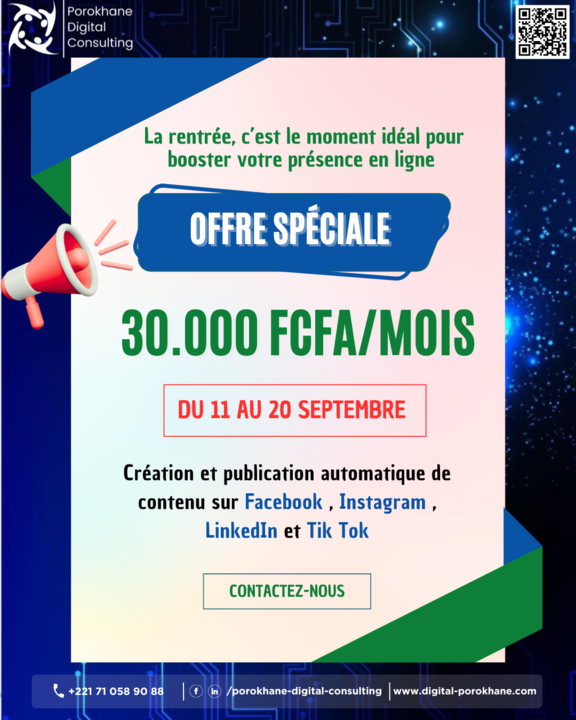
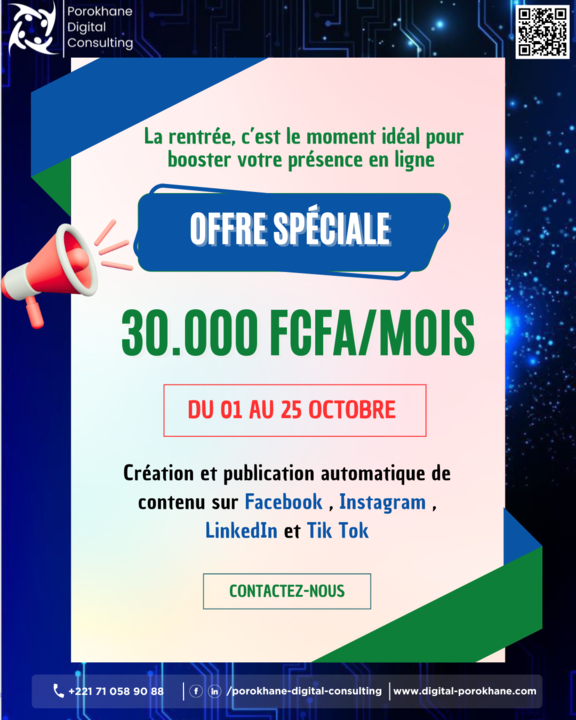
ajout

Changed region(s): [[0.3125, 0.55, 0.7188, 0.5806]]

diff --git a/index.html b/index.html
@@ -2988,7 +2988,7 @@ height="0" width="0" style="display:none;visibility:hidden"></iframe></noscript>
               <span class="price-new">90.000 FCFA SITE VITRINE</span>
             </div>
             <div class="offre-period">
-              <p><strong>📅 Offre valable du 11 au 20 septembre</strong></p>
+              <p><strong>📅 Offre valable du 1 au 25 Octombre</strong></p>
             </div>
             <p class="offre-description">Donnez vie à votre entreprise en ligne avec un site vitrine professionnel ! Faites rayonner votre activité, attirez de nouveaux clients et boostez votre visibilité en ligne grâce à notre expertise digitale.</p>
             <div class="offre-contact">
@@ -3048,7 +3048,7 @@ height="0" width="0" style="display:none;visibility:hidden"></iframe></noscript>
             </div>
             <p class="offre-description">La rentrée est le moment idéal pour donner plus de visibilité à votre business. Avec notre OFFRE SPÉCIALE → création et publication de contenu automatique sur Facebook, Instagram, LinkedIn et TikTok.</p>
             <div class="offre-period">
-              <p><strong>📅 Offre valable du 11 au 20 septembre</strong></p>
+              <p><strong>📅 Offre valable du 1 au 25 septembre</strong></p>
             </div>
             <div class="offre-contact">
               <p><strong>Contactez nous maintenant et profitez de l'offre !</strong></p>
@@ -3070,7 +3070,7 @@ height="0" width="0" style="display:none;visibility:hidden"></iframe></noscript>
                 <div class="countdown-title">⏰ Temps restant :</div>
                 <div class="countdown" id="countdown2">
                   <div class="countdown-item">
-                    <span class="countdown-number" id="days2">0</span>
+                    <span class="countdown-number" id="days2">24</span>
                     <span class="countdown-label">Jours</span>
                   </div>
                   <div class="countdown-item">
@@ -5771,8 +5771,8 @@ document.addEventListener('DOMContentLoaded', function() {
 
     // Fonction pour le countdown
     function startCountdown() {
-      // Date limite : 20 septembre 2025 à 23:59:59
-      const targetDate = new Date('2025-09-20T23:59:59').getTime();
+      // Date limite : 25 octobre 2025 à 23:59:59
+      const targetDate = new Date('2025-10-25T23:59:59').getTime();
       
       function updateCountdown() {
         const now = new Date().getTime();

diff --git a/promo.html b/promo.html
@@ -414,7 +414,7 @@
                     <span class="promo-currency">CHF/km</span>
                 </div>
                 <div class="promo-period">
-                    <p><strong>📅 Offre valable jusqu'au 30 septembre</strong></p>
+                    <p><strong>📅 Offre valable du 1er au 25 octobre</strong></p>
                 </div>
                 <p class="promo-description">
                     Voyagez autrement à Vevey ! Découvrez notre Tesla Y 100% électrique avec chauffeur professionnel 
@@ -450,7 +450,7 @@
                     <span class="promo-currency">CHF/km</span>
                 </div>
                 <div class="promo-period">
-                    <p><strong>📅 Offre valable jusqu'au 30 septembre</strong></p>
+                    <p><strong>📅 Offre valable du 1er au 25 octobre</strong></p>
                 </div>
                 <p class="promo-description">
                     Déjà une semaine de promo chez Montransfert Sàrl ! Profitez d'un confort haut de gamme 
@@ -486,9 +486,9 @@
     </div>
 
     <script>
-        // Compteur de temps jusqu'au 30 septembre 2025
+        // Compteur de temps jusqu'au 25 octobre 2025
         function startCountdown() {
-            const endDate = new Date('2025-09-30T23:59:59'); // 30 septembre 2025
+            const endDate = new Date('2025-10-25T23:59:59'); // 25 octobre 2025
             
             function updateCountdown() {
                 const now = new Date().getTime();
